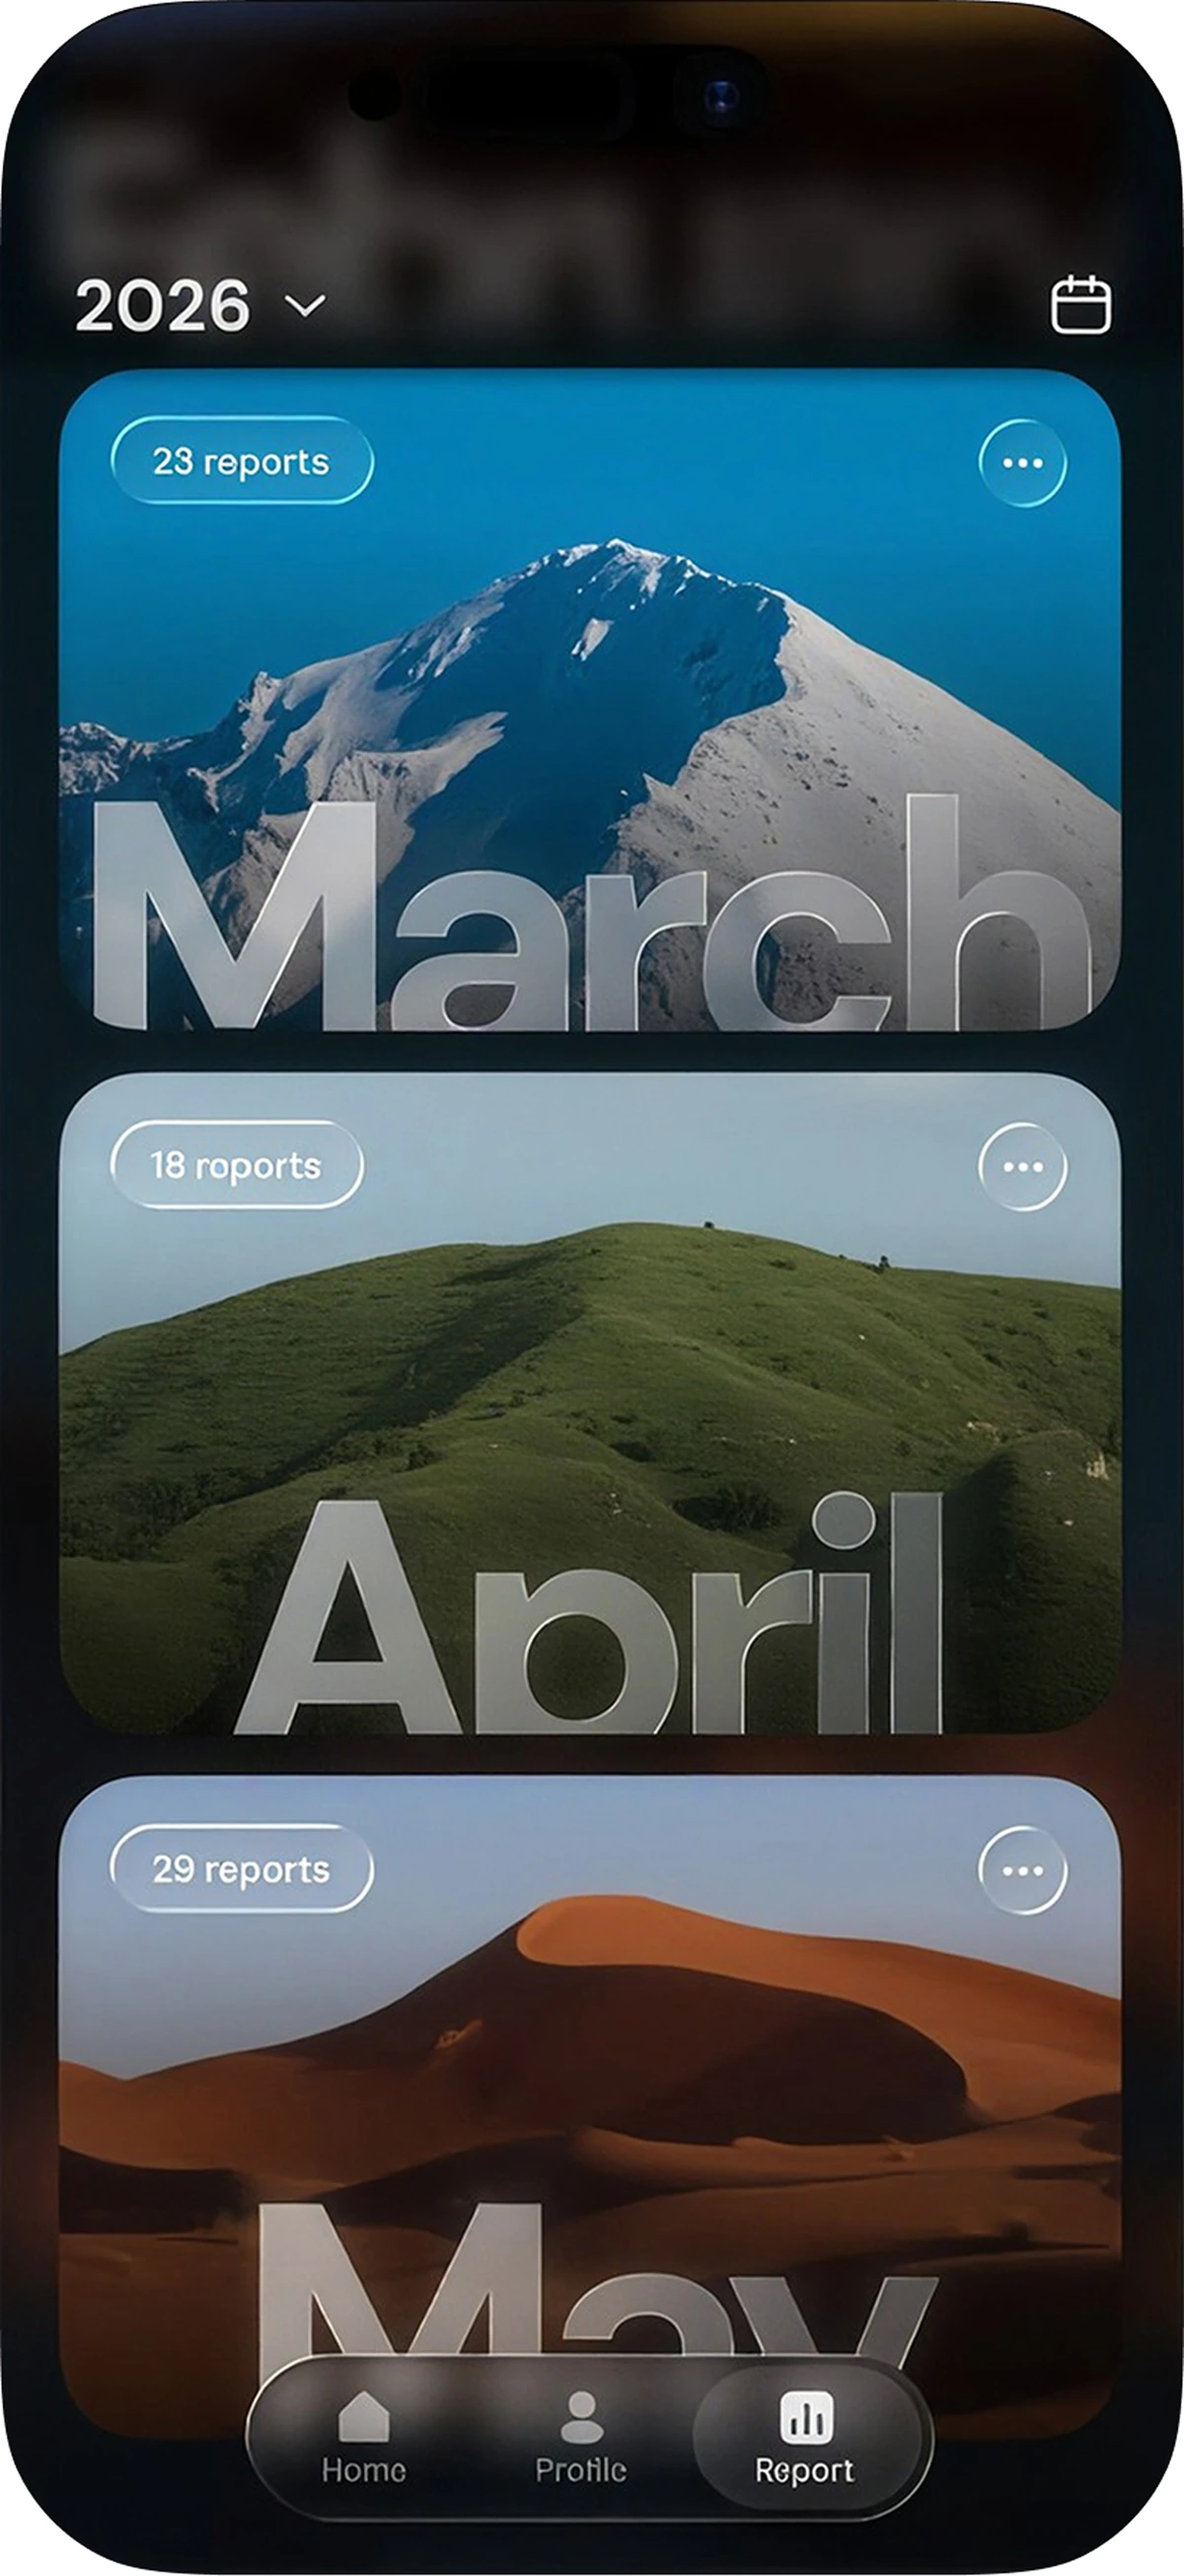
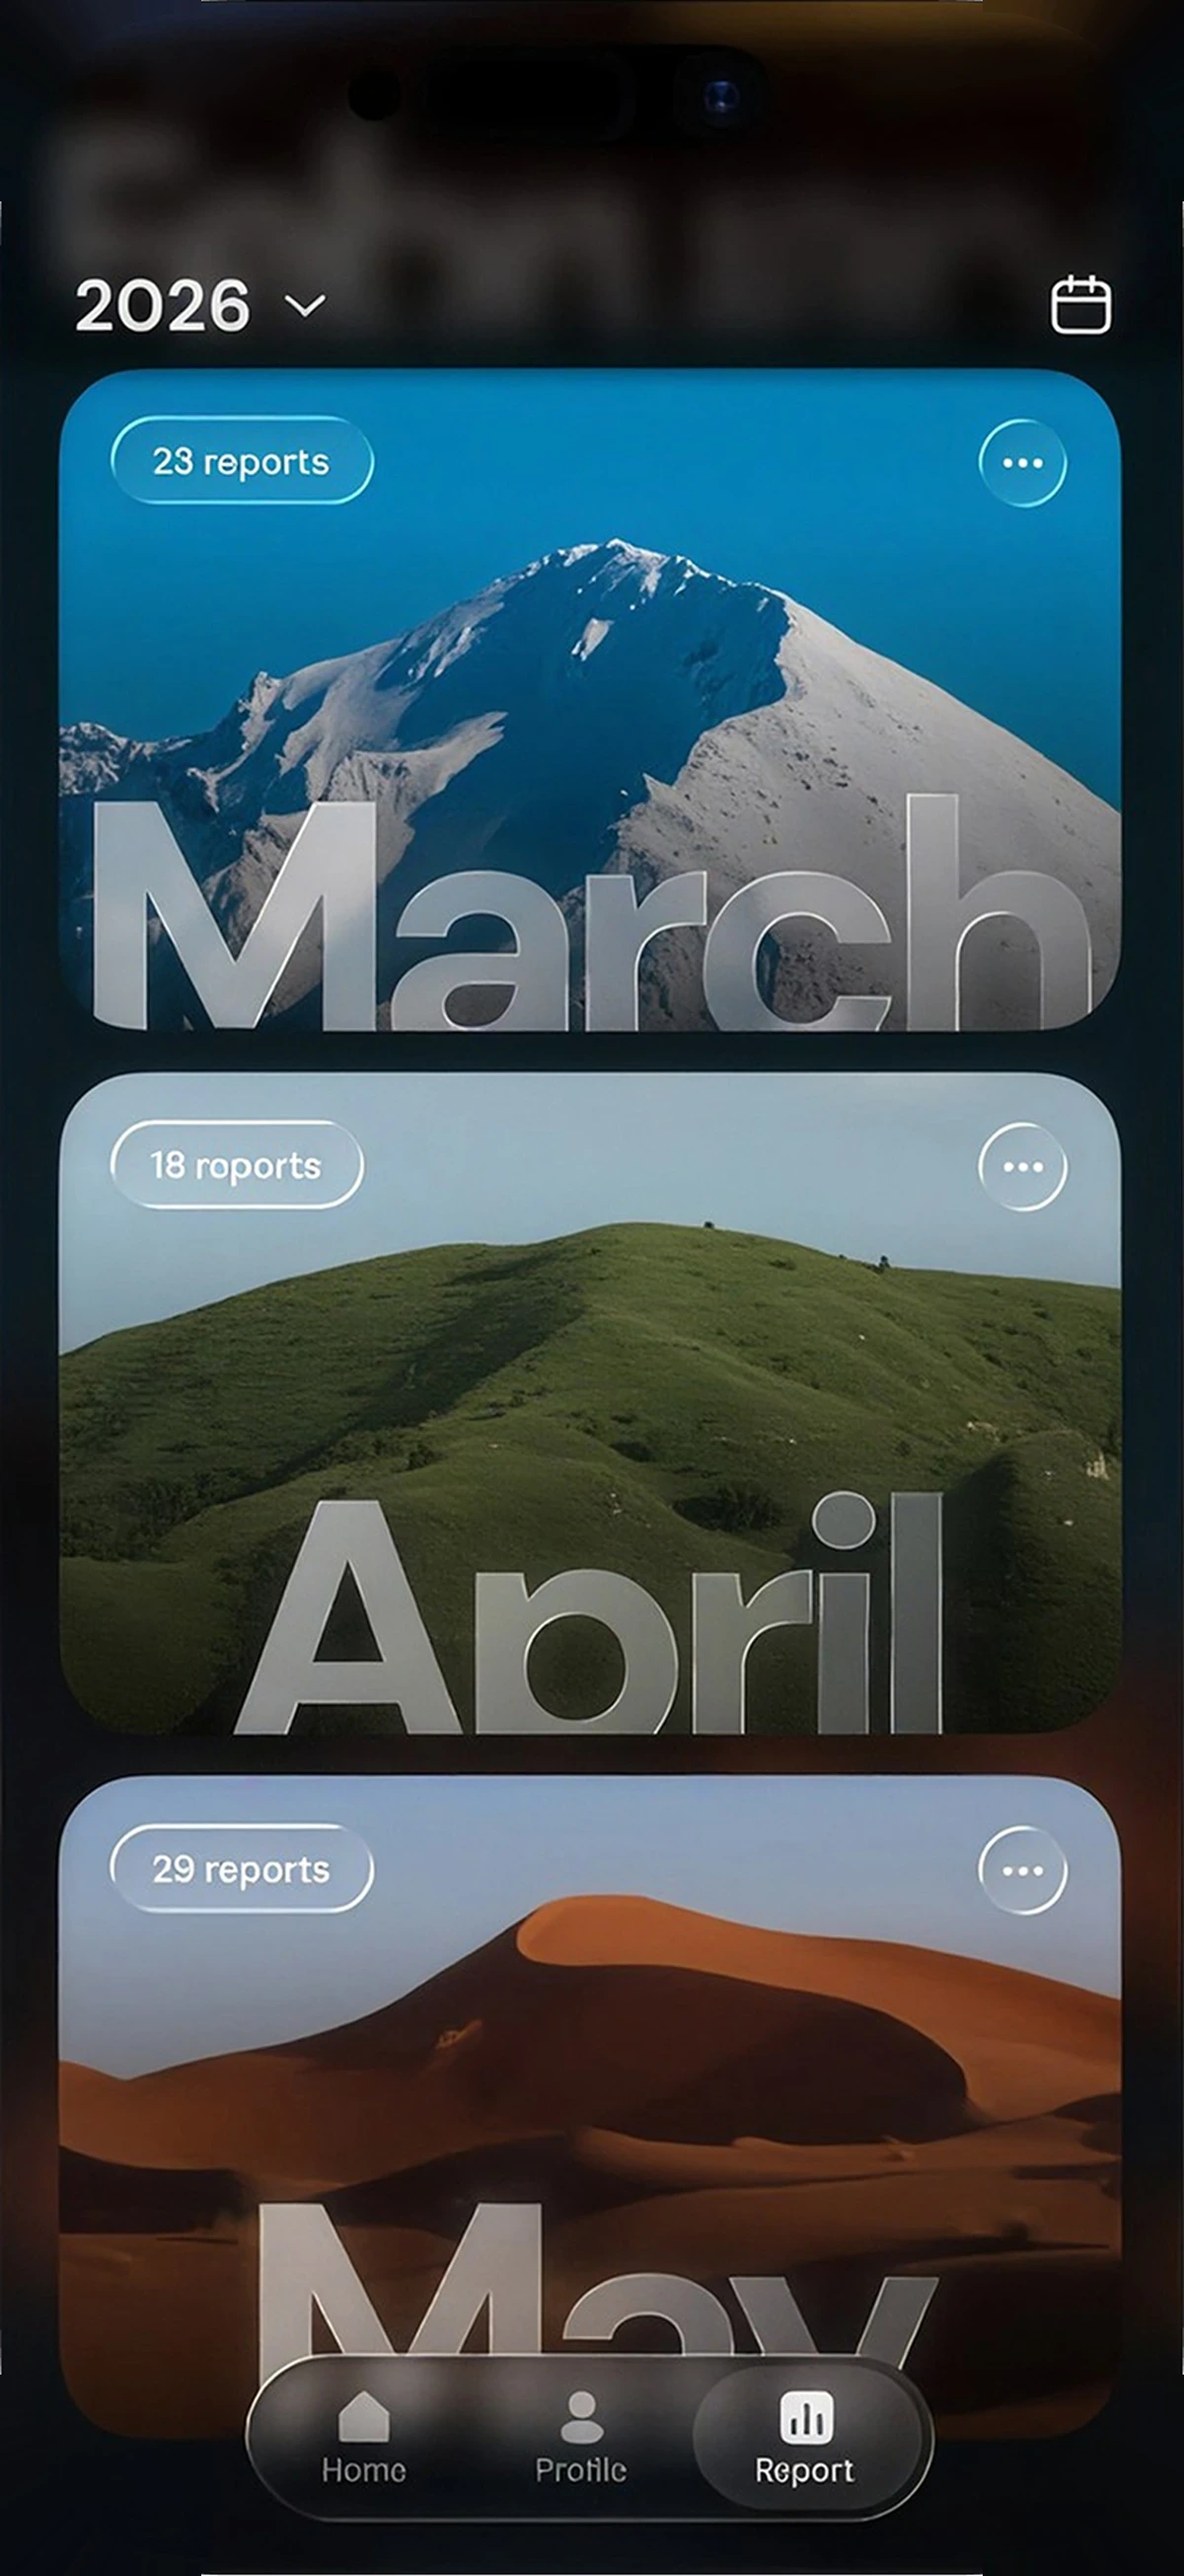
final v1 !

diff --git a/src/components/ui/card-fan-carousel.tsx b/src/components/ui/card-fan-carousel.tsx
@@ -529,12 +529,19 @@ export default function SocialCards({ cards }: SocialCardsProps) {
                 : card.statusBar === "black"
                   ? statusBarBlack
                   : null;
+            const androidStretch =
+              card.title === "TradeBase" ||
+              card.title === "Bind" ||
+              card.title === "Qino" ||
+              card.title === "Timeline";
             const image = (
               <img
                 src={card.imgUrl}
                 loading="lazy"
                 alt={card.alt || card.title || `Card ${index}`}
-                className="absolute inset-0 w-full h-full object-cover"
+                className={`absolute inset-0 w-full h-full object-cover${
+                  androidStretch ? " fan-card-img--android-stretch" : ""
+                }`}
               />
             );
             const media = isCenter ? (

diff --git a/src/App.tsx b/src/App.tsx
@@ -15,6 +15,7 @@ import bindLogo from '@/assets/logos/bind.png'
 import habitHeroLogo from '@/assets/logos/habit-hero.png'
 import qinoLogo from '@/assets/logos/qino.png'
 import sidenoteLogo from '@/assets/logos/sidenote.png'
+import timelineLogo from '@/assets/logos/timeline.png'
 import tradebaseLogo from '@/assets/logos/tradebase.png'
 import trippinLogo from '@/assets/logos/trippin.png'
 
@@ -64,6 +65,7 @@ const DEMO_CARDS = [
     imgUrl: timelineScreen,
     alt: 'Timeline app',
     title: 'Timeline',
+    logoUrl: timelineLogo,
     statusBar: 'white' as const,
   },
   {

diff --git a/src/sections/testimonials.tsx b/src/sections/testimonials.tsx
@@ -10,7 +10,7 @@ const TESTIMONIALS: UniqueTestimonial[] = [
   {
     id: 1,
     quote:
-      "He has a sharp eye for what matters, a strong point of view, and the ability to turn messy ideas into features that feel obvious in hindsight.",
+      "He has a sharp eye for what matters and the ability to turn messy ideas into features that feel obvious in hindsight.",
     author: "Jaimin Kataria",
     role: "Cofounder at Appllama",
     avatar: jaiminKatariaAvatar,

diff --git a/src/components/ui/card-fan-carousel.css b/src/components/ui/card-fan-carousel.css
@@ -89,6 +89,16 @@
   object-position: center;
 }
 
+.fan-layout--android .fan-card img {
+  /* Close hairline gap under the Android bezel */
+  top: -0.5px;
+}
+
+.fan-layout--android .fan-card img.fan-card-img--android-stretch {
+  /* TradeBase / Bind / Qino / Timeline are 1px short; stretch to seal edges */
+  height: calc(100% + 1px);
+}
+
 .fan-card img.device-status-bar {
   top: 1px;
   left: 0;
